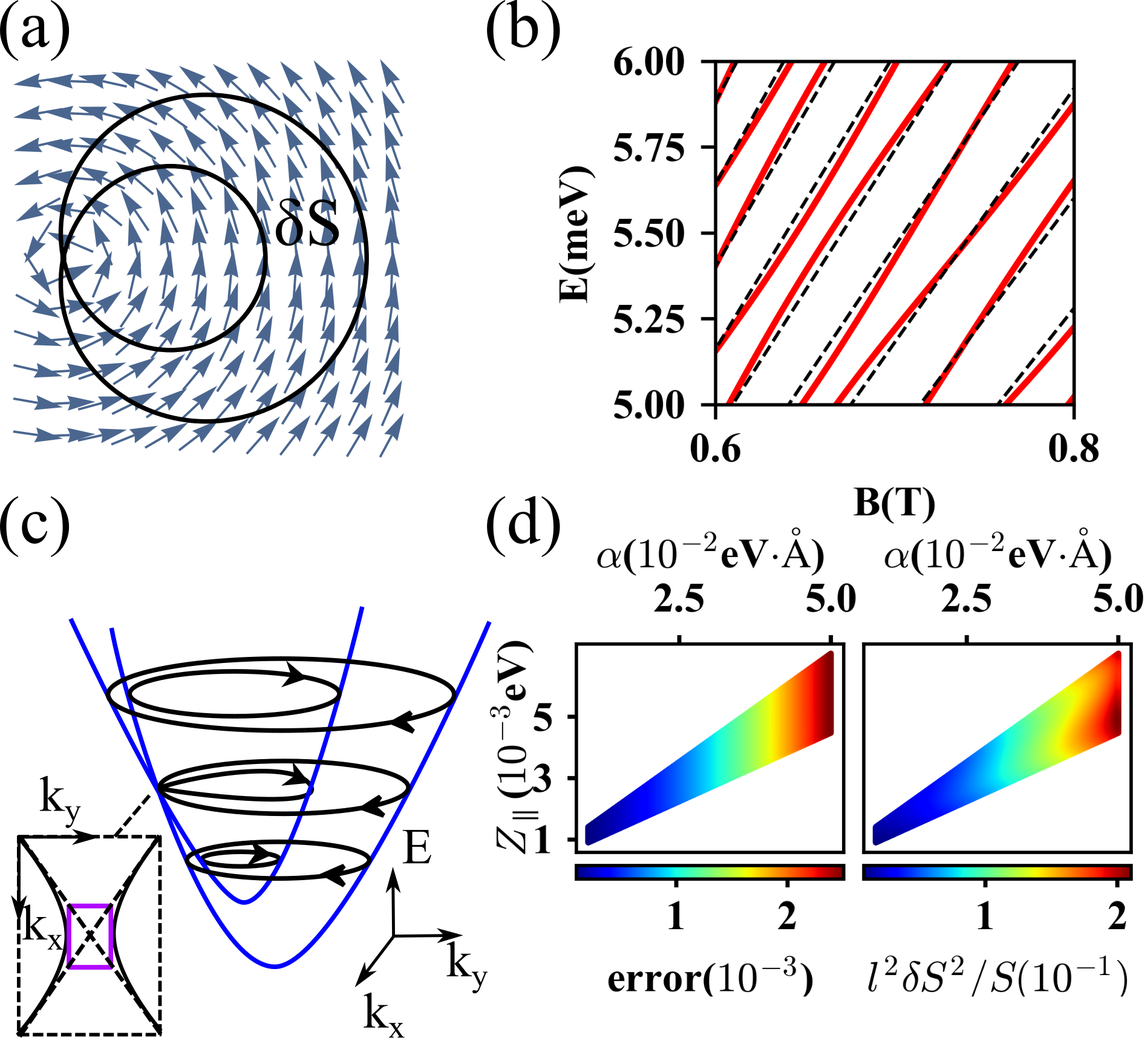
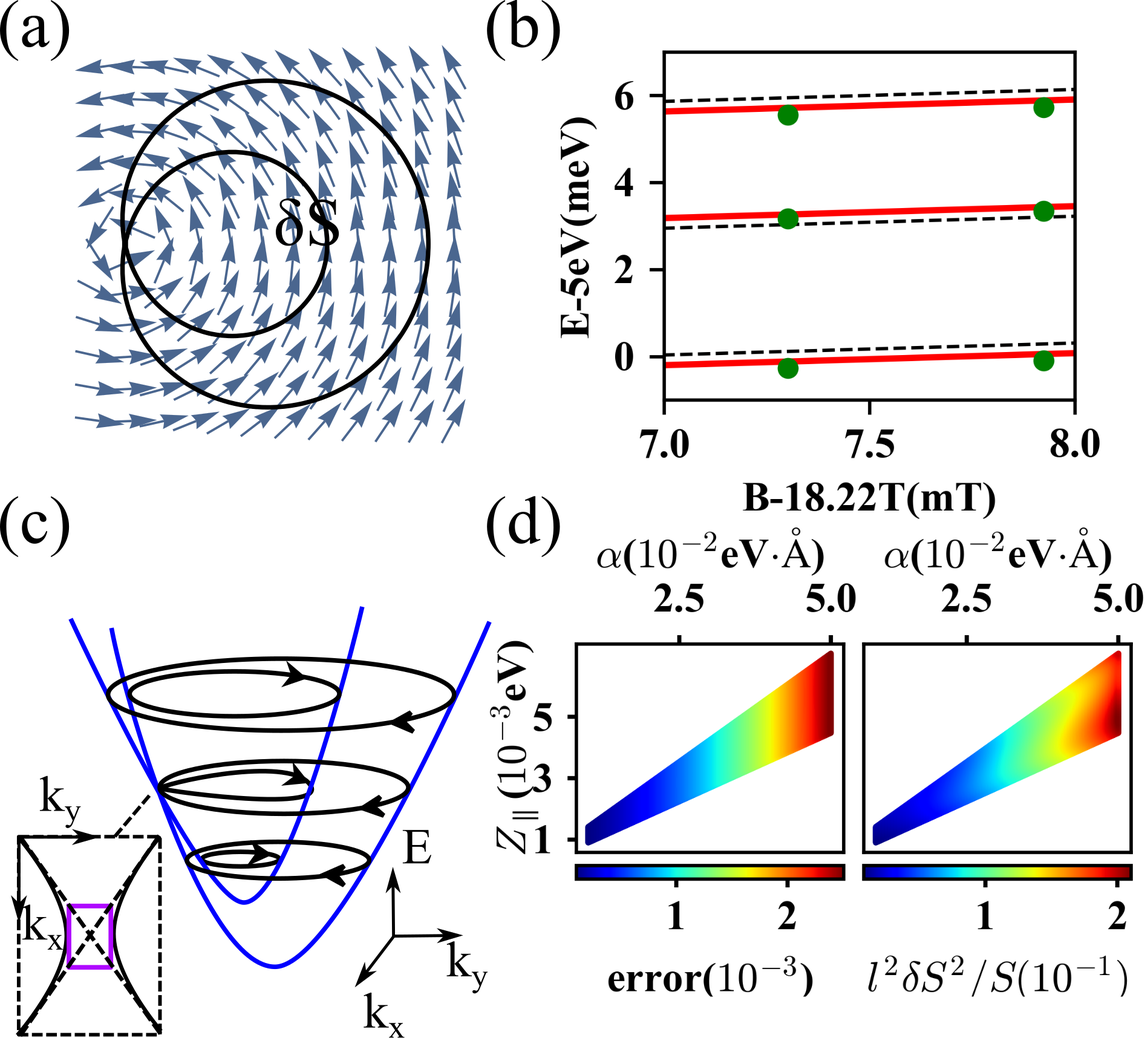
Updates from ShareLaTeX

diff --git a/paper.tex b/paper.tex
@@ -301,7 +301,7 @@ When $|\hbar^2\zpar|>|m\alpha^2|$, the Dirac cone tilts over in the $x$ directio
 
 \begin{figure}
 \includegraphics[width=1.0\columnwidth]{RZ.png}
-\caption{(a) Trefoille-shaped cyclotron orbit for the Rashba-Zeeman model at the energy of the Dirac point. The orbit is drawn over the  spin-splitting field ($d_x,d_y$) of the Hamiltonian $H_{RZ}{=}d_0(\bk)I{+}d_x(\bk)\sigma_x{+}d_y(\bk)\sigma_y$, with $d_j$ obtainable from \q{eq:RZ-Hamiltonian}. The wavefunction along the inner (resp.\ outer) component of the trefoille orbit has its pseudospin aligned parallel (resp.\ anti-parallel) to the spin-orbit field. (b) Black dashed lines illustrate a zeroth-order approximation of the Landau levels (assuming Klein tunneling); the leading-order correction is indicated by red lines. The Dirac point lies at $10$meV. Parameters for (b): $m$: 0.02$\hbar^2$/eV$\cdot$\AA$^2$, $\alpha$: 0.05eV$\cdot$\AA, $Z_\parallel$: 0.001eV. (c) A sketch of cyclotron orbits of Rashba Hamiltonian with in-plane magnetic field. (d) For various configurations ($\alpha$, $Z_\parallel$) of $H_{RZ}$, we plot in left panel $\text{error}:=|\epsilon_\text{rule}-\epsilon_\text{exact}|/\var_c$ for a single Landau level that is closest to $\epsilon_0$ in Eq. (\ref{whereisdiracpoint}), where $\epsilon_\text{rule}$ is determined by Eq. (\ref{eq:rule}) and $\epsilon_{\text{exact}}$ is obtained by numerical diagonalization of the Peierls-Onsager Hamiltonian $H_{RZ}(\bK)$. Corresponding $l^2 \delta S^2/S$ are plotted in right panel. We only plotted in region where $0.4<\epsilon_0<1.0$(eV).\cite{RZfignote} Parameters for (d): $m$: 0.01$\hbar^2$/eV$\cdot$\AA$^2$, $l=100$\AA. \label{fig:RZ}}
+\caption{(a) Trefoille-shaped cyclotron orbit for the Rashba-Zeeman model at the energy of the Dirac point. The orbit is drawn over the  spin-splitting field ($d_x,d_y$) of the Hamiltonian $H_{RZ}{=}d_0(\bk)I{+}d_x(\bk)\sigma_x{+}d_y(\bk)\sigma_y$, with $d_j$ obtainable from \q{eq:RZ-Hamiltonian}. The wavefunction along the inner (resp.\ outer) component of the trefoille orbit has its pseudospin aligned parallel (resp.\ anti-parallel) to the spin-orbit field. (b) Black dashed lines illustrate a zeroth-order approximation of the Landau levels (assuming Klein tunneling); the leading-order correction is indicated by red lines. Exact Landau levels by numerical diagonalization are plotted as green dots. The Dirac point lies at $6.4$eV. Parameters for (b): $m$: 0.05$\hbar^2$/eV$\cdot$\AA$^2$, $\alpha$: 0.05eV$\cdot$\AA, $Z_\parallel$: 0.04eV. (c) A sketch of cyclotron orbits of Rashba Hamiltonian with in-plane magnetic field. (d) For various configurations ($\alpha$, $Z_\parallel$) of $H_{RZ}$, we plot in left panel $\text{error}:=|\epsilon_\text{rule}-\epsilon_\text{exact}|/\var_c$ for a single Landau level that is closest to $\epsilon_0$ in Eq. (\ref{whereisdiracpoint}), where $\epsilon_\text{rule}$ is determined by Eq. (\ref{eq:rule}) and $\epsilon_{\text{exact}}$ is obtained by numerical diagonalization of the Peierls-Onsager Hamiltonian $H_{RZ}(\bK)$. Corresponding $l^2 \delta S^2/S$ are plotted in right panel. We only plotted in region where $0.4<\epsilon_0<1.0$(eV).\cite{RZfignote} Parameters for (d): $m$: 0.01$\hbar^2$/eV$\cdot$\AA$^2$, $l=100$\AA. \label{fig:RZ}}
 \end{figure}
 
 In addition to the in-plane field, let us also apply an out-of-plane field $B_{\perp}$, with associated magnetic length $\lper{=}\sqrt{\hbar/eB_{\perp}}$, cyclotron energy $\var^{\sma{\perp}}_c{:}{=}\hbar^2/m\lper^2{:}{=}\hbar \omega_c^{\sma{\perp}}{:}{=}h/T_c^{\sma{\perp}}$ and Zeeman coupling to the spin magnetic moment:  $\zper{:}{=}{g_s}\mu_B B_{\perp}/2$. We shall assume  $1/\lper^2S{\ll}1$, where $S$ is the area of the zeroth-order orbit (with effective mass $m$ and radius $k_E{=}\sqrt{2mE}/\hbar$). For energies much greater than $m\alpha^2$ and $\zpar$, the quasidegeneracy condition ($\delta S/S{\ll}1$) is met, where $\delta S$ is the differential area induced by both spin-orbit and in-plane Zeeman couplings [see \fig{fig:RZ}(a)].  The smallness of $1/\lper^2S$ and $\delta S/S$ (with finite ratio $\lper^2\delta S$) justifies our application of the quantization rule [\qq{eq:rule}{eq:H1}],  with the effective Hamiltonian: 
@@ -311,9 +311,9 @@ In addition to the in-plane field, let us also apply an out-of-plane field $B_{\
 $t$ here is a time variable which parametrizes the zeroth-order orbit:
 $\bk(t){=}({-}k_E \cos \omega_c^{\sma{\perp}} t, k_E \sin \omega_c^{\sma{\perp}} t )$. In the momentum-independent spin basis of \q{calHRZ}, the non-Abelian Berry connection vanishes, hence the generalized Zeeman interaction $B_{\sma{\perp}}\calm$ simply reduces to the Zeeman interaction with the spin  moment: $Z_\perp\sigma_{z}$.
 
-As alluded to in \s{sec:qtznrules}, the adiabatic limit of two independent orbits does not exist if the two spin-orbit-split orbits exactly intersect at a II-Dirac point. To investigate this failure of adiabaticity, let us study the Landau levels at energies close to the II-Dirac point ($\epsilon_0$). We focus first on the regime where, on average (over $\frako_0$), the energy splitting $|\delta \var_+{-}\delta \var_-|$ [cf.\ \q{eq:RZ-Hamiltonian}] is much greater than $Z_\perp$. This implies that the split orbits do not appreciably hybridize -- except in the vicinity of the II-Dirac point where orbits (nearly) touch.  Near this touching point (where $t{=}0$), the dynamics of a spinor electron is described by linearizing $\H$ [cf.\ \q{calHRZ}] with respect to $t$:
+As alluded to in \s{sec:qtznrules}, the adiabatic limit of two independent orbits does not exist if the two spin-orbit-split orbits exactly intersect at a II-Dirac point. To investigate this failure of adiabaticity, let us study the Landau levels at energies close to the II-Dirac point ($\epsilon_0$). We focus first on the regime where, on average (over $\frako_0$), the energy splitting $|\delta \var_+{-}\delta \var_-|$ [cf.\ \q{eq:RZ-Hamiltonian}] is much greater than $B_\perp|\calm_{\sma{+-}}|$. This implies that the split orbits do not appreciably hybridize -- except in the vicinity of the II-Dirac point where orbits (nearly) touch.  Near this touching point (where $t{=}0$), the dynamics of a spinor electron is described by linearizing $\H$ [cf.\ \q{calHRZ}] with respect to $t$:
 \e{
-\calh = \alpha k_{E} \,\omega^{\sma{\perp}}_c t\,\sigma_x+(Z_\parallel-\alpha k_{E})\sigma_y-Z_\perp\sigma_z,\la{effhamIIDirac}
+\calh = -\alpha k_{E}\omega^{\sma{\perp}}_c t\,\sigma_x+(Z_\parallel-\alpha k_{E})\sigma_y-Z_\perp\sigma_z,\la{effhamIIDirac}
 }
 The eigenbasis of $\sigma_x$ corresponds to two diabatic levels with characteristic slope $v_d{:}{=}\alpha k_E\omega^{\sma{\perp}}_c$; near $t{=}0$, the diabatic levels anticross  due to the hybridization terms proportional to $\sigma_{y,z}$. Generally, the probability of tunneling across the hybridization-induced barrier is  $\rho^2{=}\exp(-2\pi\barmu)$, with $\barmu{=}{E_g}^2/{2v_d \hbar}$ and $E_g$ the energy gap at the center of the anticrossing;[Landau and lifshitz, Wittig] in this context,
 \e{\barmu=\frac{Z_\perp^2+(Z_\parallel-\alpha k_{E})^2}{2\alpha k_{E}\var^{\sma{\perp}}_c}, \la{mu1}}
@@ -326,7 +326,7 @@ which is a connection formula that matches the two-component semiclassical (WKB)
 
 Away from the II-Dirac point, an electron undergoes adiabatic (band-conserving) dynamics. The time-ordered, coherent process of Landau-Zener tunneling/transmission and adiabatic dynamics is described by the propagator:
 \e{{\A}= \matrixtwo{\tau e^{i\bar{\varphi}}}{-\rho}{\rho}{\tau e^{-i\bar{\varphi}}} \diagmatrix{e^{i\tilde{\lambda}_+}}{e^{i\tilde{\lambda}_-}}. \la{propinplanezeeman}}
-The adiabatic phase $\tilde{\lambda}_{\pm}$ is the sum of a dynamical phase ${\pm} l^2 \delta S$ and  the single-band Berry phase $\phi^B_\pm$, for the outer ($+$) and inner ($-$) orbit respectively. At energies far above the Dirac point ($|E{-}\epsilon_0|{\gg}|Z_{\perp}|$) where the Zeeman interaction is negligible, both orbits encircle the Dirac point and hence $\phi_{\pm}^B{\approx}{\pm}\pi$; far below the Dirac point, neither orbit encircles the Dirac point, leading to $\phi_{\pm}^B{\approx}0$. At intermediate energies, $\phi_{+}^B$ (resp.\ $\phi_{-}^B$) is a continuous and decreasing (resp.\ increasing) function of energy, as supported by the Bloch-sphere argument in Fig. \ref{fig:blochsphere}.
+The adiabatic phase $\tilde{\lambda}_{\pm}$ is the sum of a dynamical phase ${\pm} l^2 \delta S/2$ and  the single-band Berry phase $\phi^B_\pm$, for the outer ($+$) and inner ($-$) orbit respectively. At energies far above the Dirac point ($|E{-}\epsilon_0|{\gg}|Z_{\perp}|$) where the Zeeman interaction is negligible, both orbits encircle the Dirac point and hence $\phi_{\pm}^B{\approx}{\pm}\pi$; far below the Dirac point, neither orbit encircles the Dirac point, leading to $\phi_{\pm}^B{\approx}0$. At intermediate energies, $\phi_{+}^B$ (resp.\ $\phi_{-}^B$) is a continuous and decreasing (resp.\ increasing) function of energy, as supported by the Bloch-sphere argument in Fig. \ref{fig:blochsphere}.
 
 
 %consist of two parts: dynamical phase $\lper^2 \delta S$ with $\delta S'$ now accounting for both spin-split and Zeeman-split area corrections,
@@ -358,14 +358,14 @@ To derive the above equation, we have utilized $\phi^B_-{+}\phi^B_+{=}0$, which 
 %To appreciate this, consider the regime $\rho^2{\lesssim}1$, where a single harmonic (corresponding to the trefoille orbit) is dominant. Viewing $\tau{=}\sqrt{1{-}\rho^2}$ as a small parameter, the zeroth-order Landau levels $E_n^0(B)$ [as obtained from \q{trefoillerule}] has been shown to be periodic in $E$ and $l^2$ (on short scales associated to the large-action trefoille orbit). 
 
 
-To recapitulate, $E_n^0(B)$ [cf.\ \q{trefoillerule}] exhibits a periodicity on short scales associated to the large action of the trefoille orbit. This small-scale periodicity is lost due to  finite-$\tau$ corrections, yet a longer-range correlation (associated to the smaller differential action $\delta S$ between spin-split orbits) persists, as shown by the first-order-in-$\tau$ correction:\footnote{The general form of this perturbative calculation can be found in Sec. IX-E of [100page]. } 
+To recapitulate, $E_n^0(B)$ [cf.\ \q{trefoillerule}] exhibits a periodicity on short scales associated to the large action of the trefoille orbit. This small-scale periodicity is lost due to  finite-$\tau$ corrections, yet a longer-range correlation (associated to the smaller differential action $\delta S$ between spin-split orbits) persists, as shown by the first-order-in-$\tau$ correction:\footnote{The general form of this perturbative calculation can be found in Sec. IX-E of [100page].} 
 \e{&\delta E_n(B) = \f{(-1)^{n+1}}{2\pi} \tau \var_c \cos\bigg(\f{l^2\delta S}{{2}}+\f{\phi_+^B-\phi_-^B}{2}-\bar{\varphi}\bigg) \lin
     &\substack{\sma{Z_{\perp}{\rightarrow}0}\\ \approx} \f{(-1)^{n+1}}{4\sqrt{2\pi}}  \var_c \f{(E-\epsilon_0)l}{\alpha(\epsilon_0/Z_{\parallel})^{3/2}}\cos\bigg(\f{l^2\delta S}{{2}}-\bar{\varphi}\bigg),\label{RZfirstorderE}}
-with the right-hand side (of each line) evaluated at $E_n^0(B)$. The second line of \q{RZfirstorderE} has greater utility where $m{\ll}m_0$. 
+with the right-hand side (of each line) evaluated at $E_n^0(B)$. The second line of \q{RZfirstorderE} has greater utility where $m{\ll}m_0$. \red{This first order corrections of Landau levels are plotted in Fig. \ref{fig:RZ}(b) as red solid lines. The oscillation in Eq. (\ref{RZfirstorderE}) cannot be observed due to the smallness of $\delta S$. However, as expected from Eq. (\ref{RZfirstorderE}), first order correction have alternative signs for every Landau levels, which is confirmed by exact diagonalization [cf. Fig. \ref{fig:RZ}](b).}
 
 
 
-If the quasidegenerate orbits are appreciably hybridized ( $|\delta \var_+-\delta \var_-|{\lesssim}Z_{\perp}$ on average), our quantization rule \qq{eq:rule}{eq:H1} remains valid but the propagator $\cala$ no longer has the closed analytic form of \q{propinplanezeeman}. We may anyway diagonalize $\cala$ numerically, and compare the resultant semiclassical Landau levels with the exact diagonalization of $H_{RZ}(\boldsymbol{K})$; to our knowledge, there exists no analytic solution of $H_{RZ}(\boldsymbol{K})$ for generic values of $\alpha,\zpar$ and $B_{\perp}$. For fixed  $B_{\perp}$ and a range of $(\alpha,\zpar)$ wherein  $l^2\delta S^2/S$ varies over $[0,0.2]$, the difference between semiclassical and exact Landau levels never exceeds  0.3\% of the cyclotron energy $\var_c$; this difference shows a strong positive correlation with $l^2\delta S^2/S$ [compare the left and right panels of Fig.\ \ref{fig:RZ} (d)], just like in the Rashba-Dresselhaus model. 
+If the quasidegenerate orbits are appreciably hybridized ( $|\delta \var_+{-}\delta \var_-|{\lesssim}B_\perp|\calm_{\sma{+-}}|$ on average), our quantization rule \qq{eq:rule}{eq:H1} remains valid but the propagator $\cala$ no longer has the closed analytic form of \q{propinplanezeeman}. We may anyway diagonalize $\cala$ numerically, and compare the resultant semiclassical Landau levels with the exact diagonalization of $H_{RZ}(\boldsymbol{K})$; to our knowledge, there exists no analytic solution of $H_{RZ}(\boldsymbol{K})$ for generic values of $\alpha,\zpar$ and $B_{\perp}$. For fixed  $B_{\perp}$ and a range of $(\alpha,\zpar)$ wherein  $l^2\delta S^2/S$ varies over $[0,0.2]$, the difference between semiclassical and exact Landau levels never exceeds  0.3\% of the cyclotron energy $\var_c$; this difference shows a strong positive correlation with $l^2\delta S^2/S$ [compare the left and right panels of Fig.\ \ref{fig:RZ} (d)], just like in the Rashba-Dresselhaus model. 
 
 
 For the special case of $\alpha{=}0$, the spectra of $H_{RZ}(\boldsymbol{K})$ and $\mathcal{A}[\mathfrak{o}]$ are both exactly soluble, hence it is possible to verify that the exact and semiclassical Landau levels match perfectly for every level index $n$ without any approximation; the latter is obtained from our rule [Eq.\ (\ref{eq:rule})], with the eigenphases of $\A$ equal to 
@@ -502,46 +502,70 @@ with $\sum_{j=1}^4r_j^2{=}1$. It follows that $r_2{=}0$ is a necessary and suffi
 
 \begin{figure}
 \includegraphics[width=1.0\columnwidth]{Cn-breakdown.png}
-\caption{Cyclotron orbits for $\mathfrak{c}_2$-symmetric [(a)] and $\mathfrak{c}_3$-symmetric [(b)] breakdown. Bottom right inset of (a) presents an enlarged view of breakdown junction, where purple rectangle has area $S_{\sma{\square}}$.\label{fig:Cn-breakdown}}
+\caption{Cyclotron orbits for $\mathfrak{c}_2$-symmetric [(a)] and $\mathfrak{c}_3$-symmetric [(b)] breakdown. \textbf{[Please add dashed line indicating zeroth order orbit, and label one of the crescents by $\delta S/4$ and another by $\delta S/6$. It would also be good to show the energy-momentum dispersion and the orbits (the analog of Fig 3c).]} Bottom right inset of (a) presents an enlarged view of the breakdown junction, where the purple rectangle has area $S_{\sma{\square}}$.\label{fig:Cn-breakdown}}
 \end{figure}
 
 
-In the adiabatic regime of two quasidegenerate orbits, we have found [in \s{sec:introducecodimension}] that the codimension for $\cala{=}{\pm} I$ is unity. Here we investigate how relaxing adiabaticity -- in the presence of a discrete $N$-fold rotational symmetry $\mathfrak{c}_N$  -- changes this result. One simple way to relax adiabaticity is to incorporate Landau-Zener tunneling at II-Dirac points. Since a II-Dirac cone is tilted in a special direction, a II-Dirac point cannot be the center of a rotational symmetry; the minimal model with $\mathfrak{c}_N$ symmetry thus requires $N$ distinct but symmetry-related II-Dirac points. For $N{=}2$, we will demonstrate that the codimension for $\cala{=}I$ remains unity, in accordance with the symmetric-coordinate analysis of \q{proprashba}; the existence of Landau-level quasi-crossings (over the B axis) will be explained in terms of the destructive interference of two tunneling Feynman paths 
+In the adiabatic limit of two quasidegenerate orbits, we have found [in \s{sec:introducecodimension}] that the codimension for $\cala{=}{\pm} I$ is unity. Here we investigate how this result changes as adiabaticity is relaxed by Landau-Zener tunneling -- that respects a discrete $N$-fold rotational symmetry ($\mathfrak{c}_N$). Since a II-Dirac cone is tilted in a special direction, a II-Dirac point cannot be the center of a rotational symmetry; the minimal model with $\mathfrak{c}_N$ symmetry thus requires $N$ distinct but symmetry-related II-Dirac points. For $N{=}2$, we will demonstrate that the codimension for $\cala{=}I$ (but not for $\cala{=}{-}I$) remains unity, in accordance with the symmetric-coordinate analysis of \q{proprashba}; the persistence of  Landau-level quasidegeneracies  (at finite tunneling probability) will be demystified in terms of the destructive interference of tunneling Feynman paths. For $N{=}3$, we will find that two of three Landau-level quasi-crossings are perturbatively stable against tunneling, but even these will destabilize beyond a critical tunneling strength. 
 
 
-Quasidegenerate orbits feature tunneling everywhere along the cyclotron orbit and therefore demand a quantization rule that incorporates both tunneling and single band evolution of wave packets. Sometimes, the coherent evolution of wave packets and tunneling can be decoupled in the quantization rule in weak field limit, as exemplified by magnetic breakdown in Rashba-Zeeman model in Sec. \ref{sec:inplanezeeman}. Let us further explore single-parameter tunability of Landau-level quasidegeneracies in this limit by introducing a rotational symmetric Hamiltonian with isolated breakdown junctions at several isolated $\bk$ points. Besides being an interesting toy model, this Hamiltonian provides some insights of stability of Landau-level quasidegeneracies by perturbing from two otherwise independent orbits.
+%Quasidegenerate orbits feature tunneling everywhere along the cyclotron orbit and therefore demand a quantization rule that incorporates both tunneling and single band evolution of wave packets. Sometimes, the coherent evolution of wave packets and tunneling can be decoupled in the quantization rule in weak field limit, as exemplified by magnetic breakdown in Rashba-Zeeman model in Sec. \ref{sec:inplanezeeman}. Let us further explore single-parameter tunability of Landau-level quasidegeneracies in this limit by introducing a rotational symmetric Hamiltonian with isolated breakdown junctions at several isolated $\bk$ points. Besides being an interesting toy model, this Hamiltonian provides some insights of stability of Landau-level quasidegeneracies by perturbing from two otherwise independent orbits.
 
-We introduce a $\mathfrak{c}_2$-symmetric analog of the Rashba-Zeeman model:
-\e{H=\f{\red{\hbar^2}k^2}{2m_1}+ \bigg(\f{\red{\hbar^2}k^2}{2m_2}-\mu\bigg)\sigma_z +wk_y\sigma_x,\la{modelC2breakdown}}
-where $0<m_1{\ll}m_2,0<\mu$. For simplicity, we interpret the Pauli matrices as  spin operators, and the two right-most terms of  \q{modelC2breakdown} as a spin-orbit coupling. The $\mathfrak{c}_2$ symmetry manifests as $\sz H(\bk)\sz{=}H({-}\bk)$, and relates 
+We begin with a minimal, $\mathfrak{c}_2$-symmetric model:
+\e{H=\f{{\hbar^2}k^2}{2m_1}+ \bigg(\f{{\hbar^2}k^2}{2m_2}-\mu\bigg)\sigma_z +wk_y\sigma_x,\la{modelC2breakdown}}
+with $0{<}m_1{\ll}m_2$ and positive $\mu$. For simplicity, we interpret the Pauli matrices as  spin operators, and the two right-most terms of  \q{modelC2breakdown} as a spin-orbit coupling. The $\mathfrak{c}_2$ symmetry manifests as $\sz H(\bk)\sz{=}H({-}\bk)$, and relates 
 two Dirac points at
-\e{\bar{k}_x = \pm\sqrt{2m_2\mu}/\red{\hbar},\;\bar{k}_y=0,\;\epsilon_{0}=\frac{m_2}{m_1}\mu.}
+\e{\bar{k}_x = \pm\sqrt{2m_2\mu}/{\hbar},\;\bar{k}_y=0,\;\epsilon_{0}=\frac{m_2}{m_1}\mu.}
 In the vicinity of either point, the  Hamiltonian has the linearized form 
-\e{H_{\pm} =\pm \red{\hbar}\sqrt{\f{2\mu}{m_2}}\bigg(\frac{m_2}{m_1}+\sz\bigg)\delta k_x+w\delta k_{y}\sx+\epsilon_0, \la{linearHam2}}
-from which we deduce that both Dirac points are  type-II if $m_1{<}m_2$; this condition is henceforth assumed.\footnote{Actually we will impose the stronger condition $m_1{\ll}m_2$, to ensure that the relative change in band velocity (due to the spin-orbit coupling) is small. This is a consistency requirement of our WKB theory, as explained in \app{app:quantizationruleproof}.} 
+\e{H_{\pm} =\pm {\hbar}\sqrt{\f{2\mu}{m_2}}\bigg(\frac{m_2}{m_1}+\sz\bigg)\delta k_x+w\delta k_{y}\sx+\epsilon_0, \la{linearHam2}}
+from which we deduce that both Dirac points are  type-II if $m_1{<}m_2$; we further assume $m_1{\ll}m_2$ so that the quasidegeneracy condition is satisfied. 
+
+%this condition is henceforth assumed.\footnote{Actually we will impose the stronger condition $m_1{\ll}m_2$, to ensure that the relative change in band velocity (due to the spin-orbit coupling) is small. This is a consistency requirement of our WKB theory, as explained in \app{app:quantizationruleproof}.} 
 
 %; near each point the orbits are well approximated by two hyperbolic arms
 %$\phi_j{=}\int_{\sma{0}}^{\sma{T_c}}\calh_{jj}dt/\hbar$ is simply the cyclotron integral of the corresponding diagonal element of the effective Hamiltonian. 
 
-At energies close to the Dirac point ($E{-}\epsilon_0 {\ll} wm_2(2E/m_1)^{\sma{1/2}}$ \red{[need checking]}), there are two concentric orbits which (nearly) touch at both Dirac points, as illustrated in Fig. \ref{fig:Cn-breakdown} (a). Just as in \q{spinsplitwkb}, we define $\Delta$ as the spin-orbit splitting energy (averaged over the zeroth-order orbit with effective mass $m_1$). In the weak-field regime where $\var_c{=}\red{\hbar^2}/m_1l^2{\ll}\Delta$, interband tunneling is localized to the vicinities of the two II-Dirac points, and occurs with the Landau-Zener probability:
-\e{\rho^2=e^{-2\pi\bar{\mu}}, \; \bar{\mu}=\f{\big(Z_{\perp}^2+(m_1/m_2)^2(E-\epsilon_0)^2\big)l^2}{2w\sqrt{2E/m_1}}. }
-Elsewhere, a semiclassical wavepacket undergoes adiabatic (band-conserving) dynamics. For the upper half ($k_y>0$) of the diagram Fig. \ref{fig:Cn-breakdown}(a), this adiabatic evolution is described by a diagonal unitary matrix in the basis of energy bands; each diagonal entry encodes the slowly-varying semiclassical phase due to $\H$ ($\lambda_a'$ \red{[Let's use $\lambda_j'$ instead of $\delta_\lambda$. The latter is confusing because $\lambda_a\sim l^2 \delta S$. It would be quite confusing if we also let $\delta\lambda_a\sim l^2\delta S$]}) acquired along a spin-split trajectory to the \red{top}. In more detail, $\lambda_{\pm}'{=}{\pm}l^2\delta S/4$ up to a field-independent geometric phase \footnote{due to this field-independent phase, it is not necessary that $\delta\lambda_+=-\delta\lambda_-$}.  
-The time-evolution propagator  describes the time-ordered, coherent process of interband tunneling (as described by the scattering matrix of \q{scattmat})
- and adiabatic dynamics:
-\e{\A&=\red{e^{i(\lambda_+'+\lambda_-')}}\times\nonumber\\
-&\left(\matrixtwo{\tau e^{i\bar{\varphi}}}{-\rho}{\rho}{\tau e^{-i\bar{\varphi}}}\red{\diagmatrix{e^{i\f{\lambda_+'-\lambda_-'}{2}}}{e^{i\f{\lambda_-'-\lambda_+'}{2}}}} \right)^2. \la{propC2breakdown}}
-The two scattering matrices for both Dirac points are identical by $\mathfrak{c}_2$ symmetry; so are the two diagonal propagators corresponding to the left and right halves of the adiabatic dynamics. 
+% In the weak-field regime where $\var_c{=}{\hbar^2}/m_1l^2{\ll}\Delta$,
 
-$\rho{=}0$  describes the adiabatic limit of two independent orbits with differential action $\delta S$. As described earlier in \s{sec:llquasideg}, degeneracies of $\cala$ occur with a periodicity (in $l^2$) of $2\pi/\delta S$, which corresponds to a periodic increment of a single flux quantum for  the differential magnetic flux (between the two spin-split orbits in real space). 
+
+
+
+At energies close to the Dirac point ($E{-}\epsilon_0 {\ll} wm_2(2E/m_1)^{\sma{1/2}}$), there are two concentric orbits which (nearly) touch at both Dirac points, as illustrated in Fig. \ref{fig:Cn-breakdown} (a). For sufficiently weak field, interband tunneling is localized near either II-Dirac point, and occurs with the Landau-Zener probability:
+\e{\rho^2=e^{-2\pi\bar{\mu}}, \; \bar{\mu}=\f{\big(Z_{\perp}^2+(m_1/m_2)^2(E-\epsilon_0)^2\big)l^2}{2w\sqrt{2E/m_1}}. \la{landauzenerc2} }
+Elsewhere, an electron undergoes adiabatic (band-conserving) dynamics. Due to the $\mathfrak{c}_2$ symmetry, the time-evolution propagator over the full cyclotron period is simply the square of the propagator for half the period: 
+\e{\A={e^{i(\tilde{\lambda}_++\tilde{\lambda}_-)}}\left(\matrixtwo{\tau e^{i\bar{\varphi}}}{-\rho}{\rho}{\tau e^{-i\bar{\varphi}}}{\diagmatrix{e^{i\f{\tilde{\lambda}_+-\tilde{\lambda}_-}{2}}}{e^{i\f{\tilde{\lambda}_--\tilde{\lambda}_+}{2}}}} \right)^2. \la{propC2breakdown}}
+The half-period propagator may be taken from \qq{scattmat}{propinplanezeeman}, with  $\bar{\mu}$ here given by \q{landauzenerc2}, and  $\tilde{\lambda}_{\pm}{=}{\pm}l^2\delta S/4$ plus a field-independent geometric phase.
+ 
+
+
+%For the upper half ($k_y{>}0$) of Fig. \ref{fig:Cn-breakdown}(a), this adiabatic evolution is described by a diagonal unitary matrix in the basis of energy bands; the phase of the diagonal entry $\tilde{\lambda}_{\pm}{=}{\pm}l^2\delta S/4$ plus a field-independent geometric phase.  The time-evolution propagator  describes the time-ordered, coherent process of Landau-Zener tunneling/transmission (as described by the scattering matrix of \q{scattmat}) and adiabatic dynamics:
+
+%The two scattering matrices for both Dirac points are identical by $\mathfrak{c}_2$ symmetry; so are the two diagonal propagators corresponding to the left and right halves of the adiabatic dynamics. 
+
+% \footnote{due to this field-independent phase, it is not necessary that $\delta\lambda_+=-\delta\lambda_-$}
+
+
+The necessary and sufficient condition for a degeneracy of $\cala$ is \begin{align}\tau\cos\bigg(\f{\tilde{\lambda}_+{+}\tilde{\lambda}_-}{2}+\bar{\varphi}\bigg)= \begin{cases} 0, & {\A}=+I \\
+                 \pm 1, & \A =-I\end{cases}.\la{c2breakdowndgncondition}
+\end{align}
+The adiabatic limit is given by $\tau{=}1$ and $\bar{\phi}{=}0$, which leads to the satisfaction of \q{c2breakdowndgncondition} for $l^2$ equal to an integer multiple of $2\pi/\delta S$. As noted  in \s{sec:introducecodimension}, such a periodicity  corresponds to a differential increment of a single, magnetic flux quantum. 
+
+Deviating from the adiabatic limit ($\tau{<}1$), we deduce from \q{c2breakdowndgncondition} that only $\A{=}I$ remains attainable by varying $B$; this is consistent with the codimension analysis of \q{proprashba}. The conditions $\A{=}I$ and $\rho{>}0$ are interpreted as a destructive interference of the two Feynman paths [illustrated in \red{[Fig]}] that an electron may take in tunneling between bands (over one cyclotron period) -- effectively, there are then two identical and independent orbits, which lead to a Landau-level quasidegeneracy. Such quasidegeneracies occur with  a periodicity in $l^2$ of $4\pi/\delta S$ (or two flux quanta). This periodicity is not affected by the additional phase $\bar{\phi}$ in the argument of the cosine function, because $\bar{\phi}$  varies on the scale  $2\pi/S_{\sma{\square}}$ [with  $S_{\sma{\square}}$ the area of the rectangle inscribed between the two hyperbolic arms  in Fig.\ \ref{fig:Cn-breakdown} (a)],\footnote{For $\bar{\varphi}(\bar{\mu})$ to vary  $\sim 1$, the Landau-Zener parameter $\bar{\mu}$ must vary by $\sim 1$;\footnote{See Fig.\ 10 in 100page} moreover, $2\pi\barmu{:}{=} (2\pi/8) l^2S_{\sma{\square}}$.[AALG]} which is much larger than
+ $4\pi/\delta S$. To recapitulate, half the Landau-level quasi-crossings (over the $B$ axis) are destabilized by tunneling; the robustness of the other half relies on $\mathfrak{c}_2$ symmetry.
+
+
 %The degeneracies alternate between $\cala{=}I$ and ${-}I$ on the B axis, hence the subset of degeneracies corresponding to $\cala{=}I$ (or ${-}I$) occur with a period of  $4\pi/\delta S$ (or two flux quanta).  
 
 %occurs if and only if $\rho{=}0$ and  $\exp[i(\delta \lambda_+{+}\bar{\varphi})]$ is real, while 
 
 
-Let us investigate the fate of these degeneracies as $\rho$ increases. While asymmetric interband tunneling generically destabilizes all degeneracies, we will demonstrate that two-fold-symmetric interband tunneling destabilizes only half of them. Indeed, the necessary condition for $\A\propto I$ is \e{\tau\cos(\f{\lambda_+'{+}\lambda_-'}{2}+\bar{\varphi})=\pm 1,0.\la{c2breakdowndgncondition}}
-for $\rho{>}0$, only 0 in Eq. (\ref{c2breakdowndgncondition}) is possible, destabilizing half of the degeneracies. \footnote{Notice cosine function reaches 0 twice in a period}
+%Let us investigate the fate of these degeneracies as $\rho$ increases. While asymmetric interband tunneling generically destabilizes all degeneracies, we will demonstrate that two-fold-symmetric interband tunneling destabilizes only half of them. Indeed, 
 
-Eq. (\ref{c2breakdowndgncondition}) with $0$ on the right hand side is the condition for destructive interference of the two Feynman paths that contribute to interband tunneling (as illustrated in \red{[Fig]}); this occurs with a period  of   $4\pi /\delta S$ (or two flux quanta). To appreciate this, consider that  for $(\lambda_+'{+}\lambda_-')/2$ to vary by $\pi$, $l^2$ must vary by $4\pi/\delta S$. On the other hand, the field dependence of the scattering phase is comparatively negligible: for $\bar{\varphi}(\bar{\mu})$ to vary  $\sim 1$, the Landau-Zener parameter $\bar{\mu}$ must vary by $\sim 1$;\footnote{See Fig.\ 10 in 100page} moreover, $2\pi\barmu{:}{=} (2\pi/8) l^2S_{\sma{\square}}$ with  $S_{\sma{\square}}$ the area of the rectangle inscribed between the two hyperbolic arms  (see inset of Fig. \ref{fig:Cn-breakdown} (a)); clearly $S_{\sma{\square}}{\ll}\delta S$.
+
+%for $\rho{>}0$, only 0 in Eq. (\ref{c2breakdowndgncondition}) is possible, destabilizing half of the degeneracies. \footnote{Notice cosine function reaches 0 twice in a period}
+
+%Eq. (\ref{c2breakdowndgncondition}) with $0$ on the right hand side is the condition for destructive interference of the two Feynman paths that contribute to interband tunneling (as illustrated in \red{[Fig]}); this occurs with a period  of   $4\pi /\delta S$ (or two flux quanta). 
+
 
 %$2\pi\bar{\mu}{\sim}l^2 S_{\sma{\square}}/8$ where $S_{\sma{\square}}$ is much smaller than $\delta S$ [see inset of Fig. \ref{fig:Cn-breakdown}(a)].
 
@@ -554,7 +578,10 @@ Eq. (\ref{c2breakdowndgncondition}) with $0$ on the right hand side is the condi
 
 %This  provides yet another  illustration of the general statement proposed in \s{sec:singleparameterrashba}: due to two-fold rotational symmetry, half the degeneracies have unit codimension, and the other half has codimension two. 
 
-An analogous model with $\mathfrak{c}_3$-related II-Dirac points  is illustrated in Fig. \ref{fig:Cn-breakdown}(b). The corresponding propagator $\A$ has a form analogous to \q{propC2breakdown} -- but with $(\cdot)^2$ replaced by $(\cdot)^3$, and with $\lambda_\pm'{=}\pm l^2\delta S/4$ replaced by $\pm l^2\delta S/6$ (plus a field-dependent geometric correction). The degeneracy condition is accordingly modified as $\tau\cos[(\lambda_+'{+}\lambda_-')/2{+}\bar{\varphi}]=\pm 1,\pm 1/2$. For nonzero tunneling ($\rho {>}0$), only $\pm 1/2$ is reachable where, of every three degeneracies that exist in the adiabatic limit ($\rho=0$), only two persist. $\tau=1/2$ marks a critical point where all degeneracies coalesce pairwise (on the $B$ axis) and annihilate. It is not hard to imagine the claim made in Sec. \ref{sec:singleparameterrashba} remains true: out of every $N$ degeneracies, $N-1$ of them are stable against $\mathfrak{c}_N$-symmetric breakdown (see App. \ref{app:codimension} for a proof).
+
+For our last illustration, we consider a II-Dirac model with $\mathfrak{c}_3$  symmetry, as   is illustrated in Fig. \ref{fig:Cn-breakdown}(b). The corresponding propagator $\A$ has a form analogous to \q{propC2breakdown} -- but with $(\cdot)^2$ replaced by $(\cdot)^3$, and with $\tilde{\lambda}_\pm{=}\pm l^2\delta S/4$ replaced by $\pm l^2\delta S/6$ (plus a field-dependent geometric correction). The degeneracy condition is  modified to $\tau\cos[(\tilde{\lambda}_+{+}\tilde{\lambda}_-)/2{+}\bar{\varphi}]{=}{\pm} 1,{\pm} 1/2$. With nonzero tunneling ($\rho {>}0$), only $\pm 1/2$ is attainable -- this implies that of every three degeneracies that exist in the adiabatic limit, only two are perturbatively stable. Beyond a critical field  (defined by $\tau{=}1/2$),   all degeneracies coalesce pairwise (on the $B$ axis) and annihilate. 
+
+We conclude this section with a general result that is valid for any integer $N{\geq}2$: of every $N$ quasi-crossings that exist in the adiabatic limit, $N{-}1$ of them are stable against tunneling that respects  $\mathfrak{c}_N$ symmetry. We prove this in App. \ref{app:codimension}.
 %$\cala{=}{\pm} I$ is attained if and only if  $\tau \cos(\delta \lambda_+{+}\bar{\varphi}){=}{\mp}1/2$.
 
 %There then are no more $B$-tunable degeneracies beyond a critical field where  $\tau{<}1/2$. 
@@ -562,8 +589,8 @@ An analogous model with $\mathfrak{c}_3$-related II-Dirac points  is illustrated
 %In the zero-tunneling limit ($\rho{=}0$), the condition for degeneracy (of $\cala$) is that $\exp[i(\phi_+{+}\bar{\varphi})]$ is a sixth root of unity -- the periodicity in $l^2$ corresponds to a single quantum of differential magnetic flux. 
 
 
-\textbf{A different realization of two-fold symmetric breakdown: angular magnetoresistance oscillations.}
-\red{[I begin to question this again. In my previous understanding, the in-plane magnetic field changes the band structure while the out-of-plane magnetic field produces LLs. Now I believe the in-plane magnetic field cannot be simply understood simply as a change in band structures. Therefore, I am not quite sure whether it is related to magnetic breakdown.]}
+\textbf{Bonus: A different realization of two-fold symmetric breakdown: angular magnetoresistance oscillations.}
+%\red{[I begin to question this again. In my previous understanding, the in-plane magnetic field changes the band structure while the out-of-plane magnetic field produces LLs. Now I believe the in-plane magnetic field cannot be simply understood simply as a change in band structures. Therefore, I am not quite sure whether it is related to magnetic breakdown.]}
 
 \subsection{The ten-fold table for symmetry constrained codimensions}\la{sec:tenfold}
 
@@ -580,8 +607,8 @@ An analogous model with $\mathfrak{c}_3$-related II-Dirac points  is illustrated
 4 & $\exists \bk \in \frako_0, g\circ \bk\ne\bk$    & 0 & 1 & & - & 1   \\
 5 &    & 1 & 0 & & $\breve{g} \propto \sigma_z$ & 2  \\
  &    &  &  & & $\breve{g} \not\propto \sigma_z$ & 0  \\
-6 &    & 1 & 1 & $\surd$ & $g^2=1$ & 2  \\
-&    &  &  & & $g^2=-1$ & 0  \\
+6 &  & 1 & 1 & $\surd$ & $g^2=1$ & 2  \\
+&  &  &  & & $g^2=-1$ & 0  \\
 7 & $|g\circ \frako_0| \ne |\frako_0|$ & 0 & 0 & $\surd$ & - & 3 \\
 8 &    & 0 & 1 & & - & 3 \\
 9 &    & 1 & 0 & & - & 3 \\
@@ -1080,7 +1107,7 @@ The other part $\mathcal{S}:=V_+^\dagger\A_2V_-$ is a standard Landau-Zener prob
 \end{equation}
 where $k_x=-k_F \cos(\omega_c t)$ and $k_y=k_F \sin(\omega_c t)$. Since $t_+-t_-\ll T_c$, we can keep only the linear terms in $t$,
 \begin{equation}
-\calh(t)\approx\alpha k_F \omega_c t\sigma_x+(Z_\parallel-\alpha k_F)\sigma_y-Z_\perp\sigma_z.
+\calh(t)\approx-\alpha k_F \omega_c t\sigma_x+(Z_\parallel-\alpha k_F)\sigma_y-Z_\perp\sigma_z.
 \end{equation}
 It is now obvious that $\mathcal{S}$ is a Landau-Zener problem: $\alpha k_F \omega_c t\sigma_x$ is linear in time; $(Z_\parallel-\alpha k_F)\sigma_y-Z_\perp\sigma_z$ is time independent; columns of $V_-$ and $V_+$ are approximately eigenvectors of $\sigma_x$. Therefore, $\mathcal{S}$ takes the form of a magnetic junction scattering matrix with
 \e{\mu=\frac{ml^2(Z_\perp^2+(Z_\parallel-\alpha k_F)^2)}{2\alpha k_F}.}
